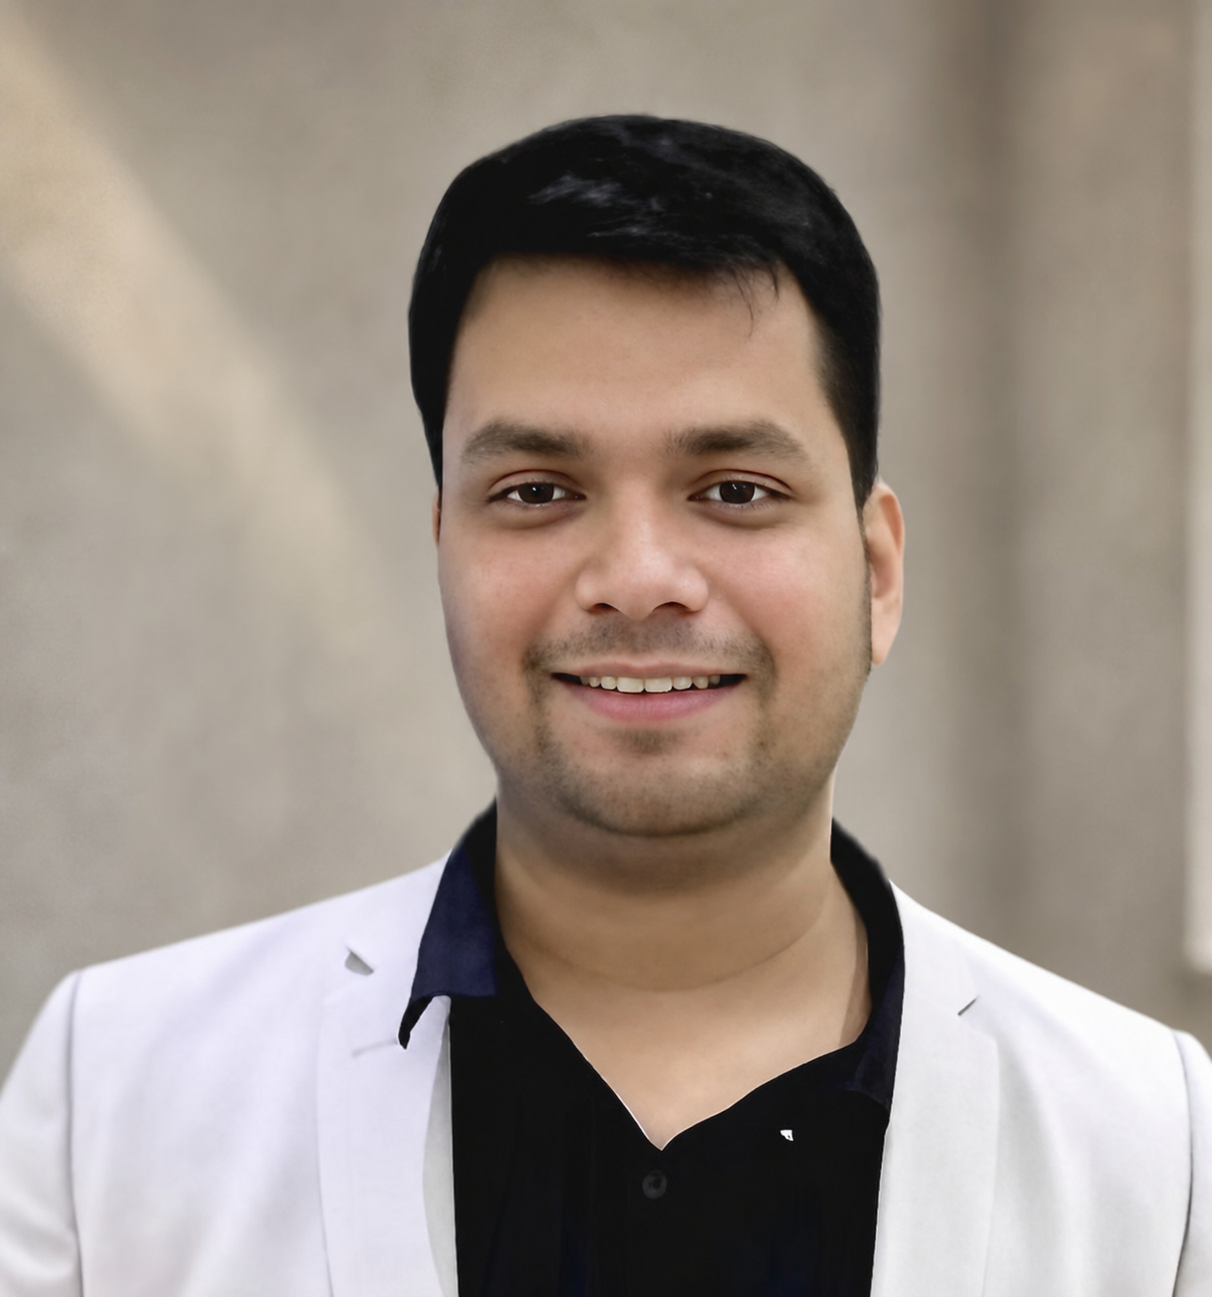
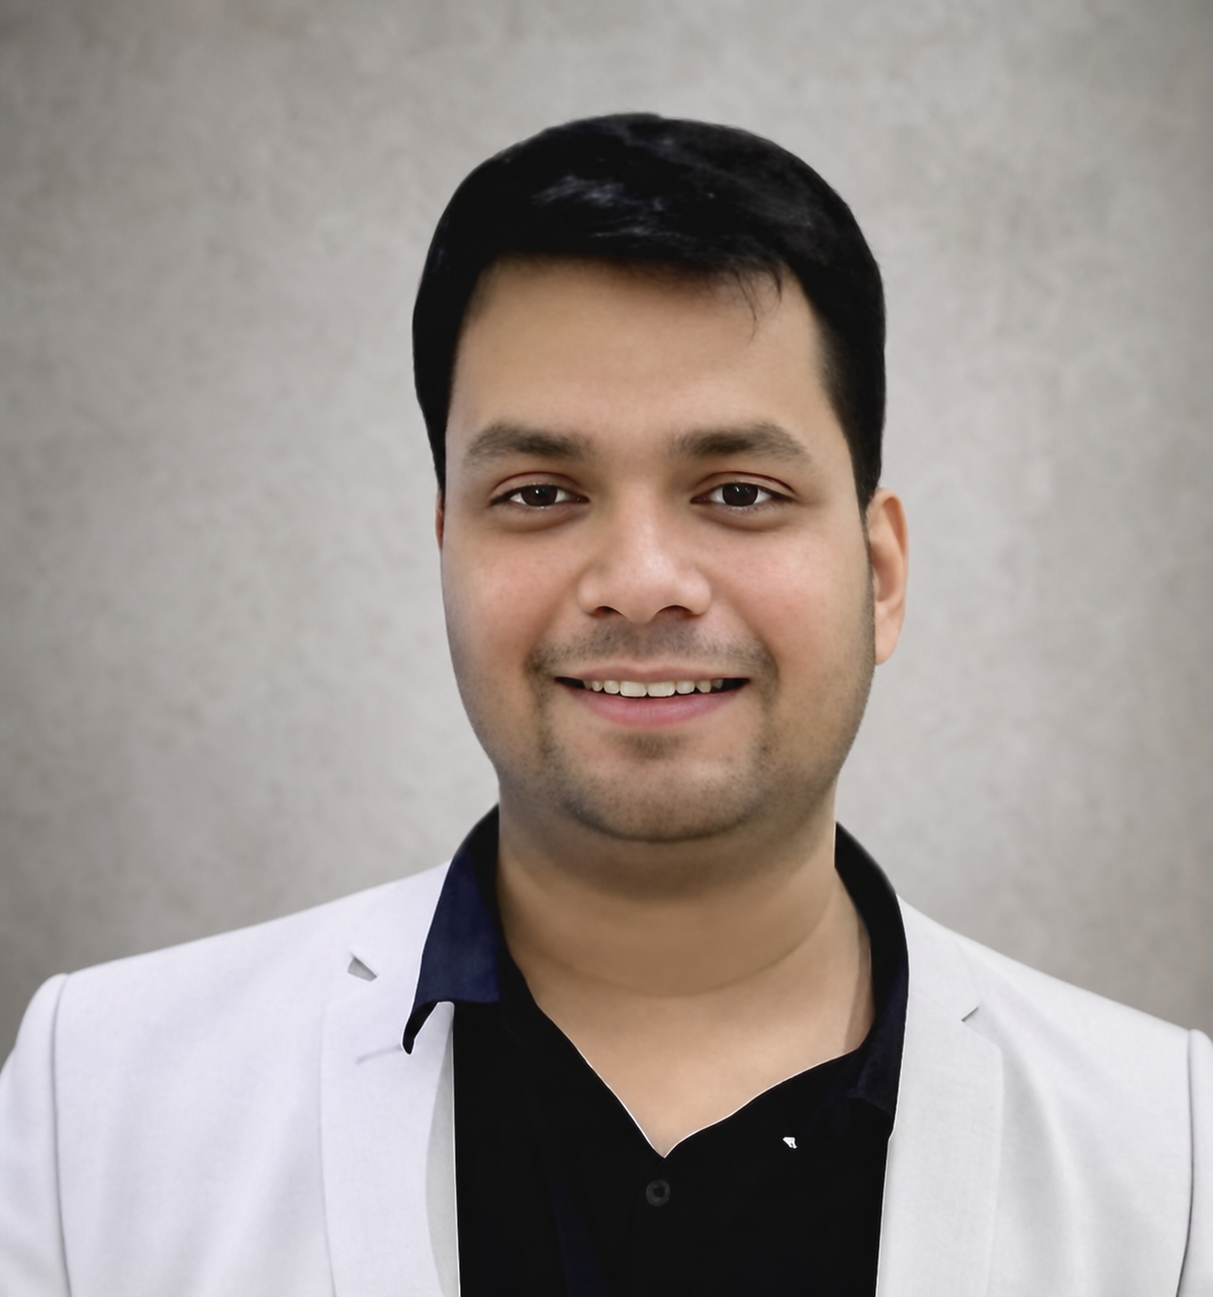
added cv

diff --git a/index.html b/index.html
@@ -183,12 +183,12 @@
     <p class="authorline">PhD candidate, Department of Physics</p>
     <p class="affil">Indian Institute of Technology Bombay, Mumbai, India</p>
     <p class="linkline">
-      <a href="mailto:[email redacted]">[email redacted]</a><span class="sep">·</span><a href="https://ui.adsabs.harvard.edu/public-libraries/QPuxOe25TZO_QVcuHLKSBg">ADS</a><span class="sep">·</span><a href="https://orcid.org/0000-0002-7942-8477">ORCID</a><span class="sep">·</span><a href="https://github.com/vishwajeet-phy">GitHub</a><span class="sep">·</span><a href="cv.pdf">CV</a>
+      <a href="mailto:[email redacted]">[email redacted]</a><span class="sep">·</span><a href="https://ui.adsabs.harvard.edu/public-libraries/QPuxOe25TZO_QVcuHLKSBg">ADS</a><span class="sep">·</span><a href="https://orcid.org/0000-0002-7942-8477">ORCID</a><span class="sep">·</span><a href="https://github.com/vishwajeet-phy">GitHub</a><span class="sep">·</span><a href="cv_tex.pdf" target="_blank" rel="noopener">CV</a>
     </p>
   </div>
 
   <div class="abstract">
-    <img class="photo" src="my_image.jpg" alt="Vishwajeet Swain">
+    <img class="photo" src="my_image.png" alt="Vishwajeet Swain">
     <p class="lede-first">
       I am an observational astronomer studying the light of the universe's most
       violent explosions: gamma-ray burst afterglows, kilonovae, and the
@@ -210,7 +210,7 @@
     <p>
       Along the way I have led GIT's gravitational-wave follow-up operations and
       supervised more than twenty students on observing, pipeline, and modeling
-      projects. The full record is in my <a href="cv.pdf">CV</a>.
+      projects. The full record is in my <a href="cv_tex.pdf" target="_blank" rel="noopener">CV</a>.
     </p>
   </div>
 
@@ -464,7 +464,7 @@
   <footer>
     <span class="f-name">Vishwajeet Swain &mdash; Department of Physics, IIT Bombay</span>
     <span class="f-links">
-      <a href="mailto:[email redacted]">Email</a><span class="sep">·</span><a href="https://ui.adsabs.harvard.edu/public-libraries/QPuxOe25TZO_QVcuHLKSBg">ADS</a><span class="sep">·</span><a href="https://orcid.org/0000-0002-7942-8477">ORCID</a><span class="sep">·</span><a href="https://github.com/vishwajeet-phy">GitHub</a><span class="sep">·</span><a href="cv.pdf">CV</a>
+      <a href="mailto:[email redacted]">Email</a><span class="sep">·</span><a href="https://ui.adsabs.harvard.edu/public-libraries/QPuxOe25TZO_QVcuHLKSBg">ADS</a><span class="sep">·</span><a href="https://orcid.org/0000-0002-7942-8477">ORCID</a><span class="sep">·</span><a href="https://github.com/vishwajeet-phy">GitHub</a><span class="sep">·</span><a href="cv_tex.pdf" target="_blank" rel="noopener">CV</a>
     </span>
   </footer>
 